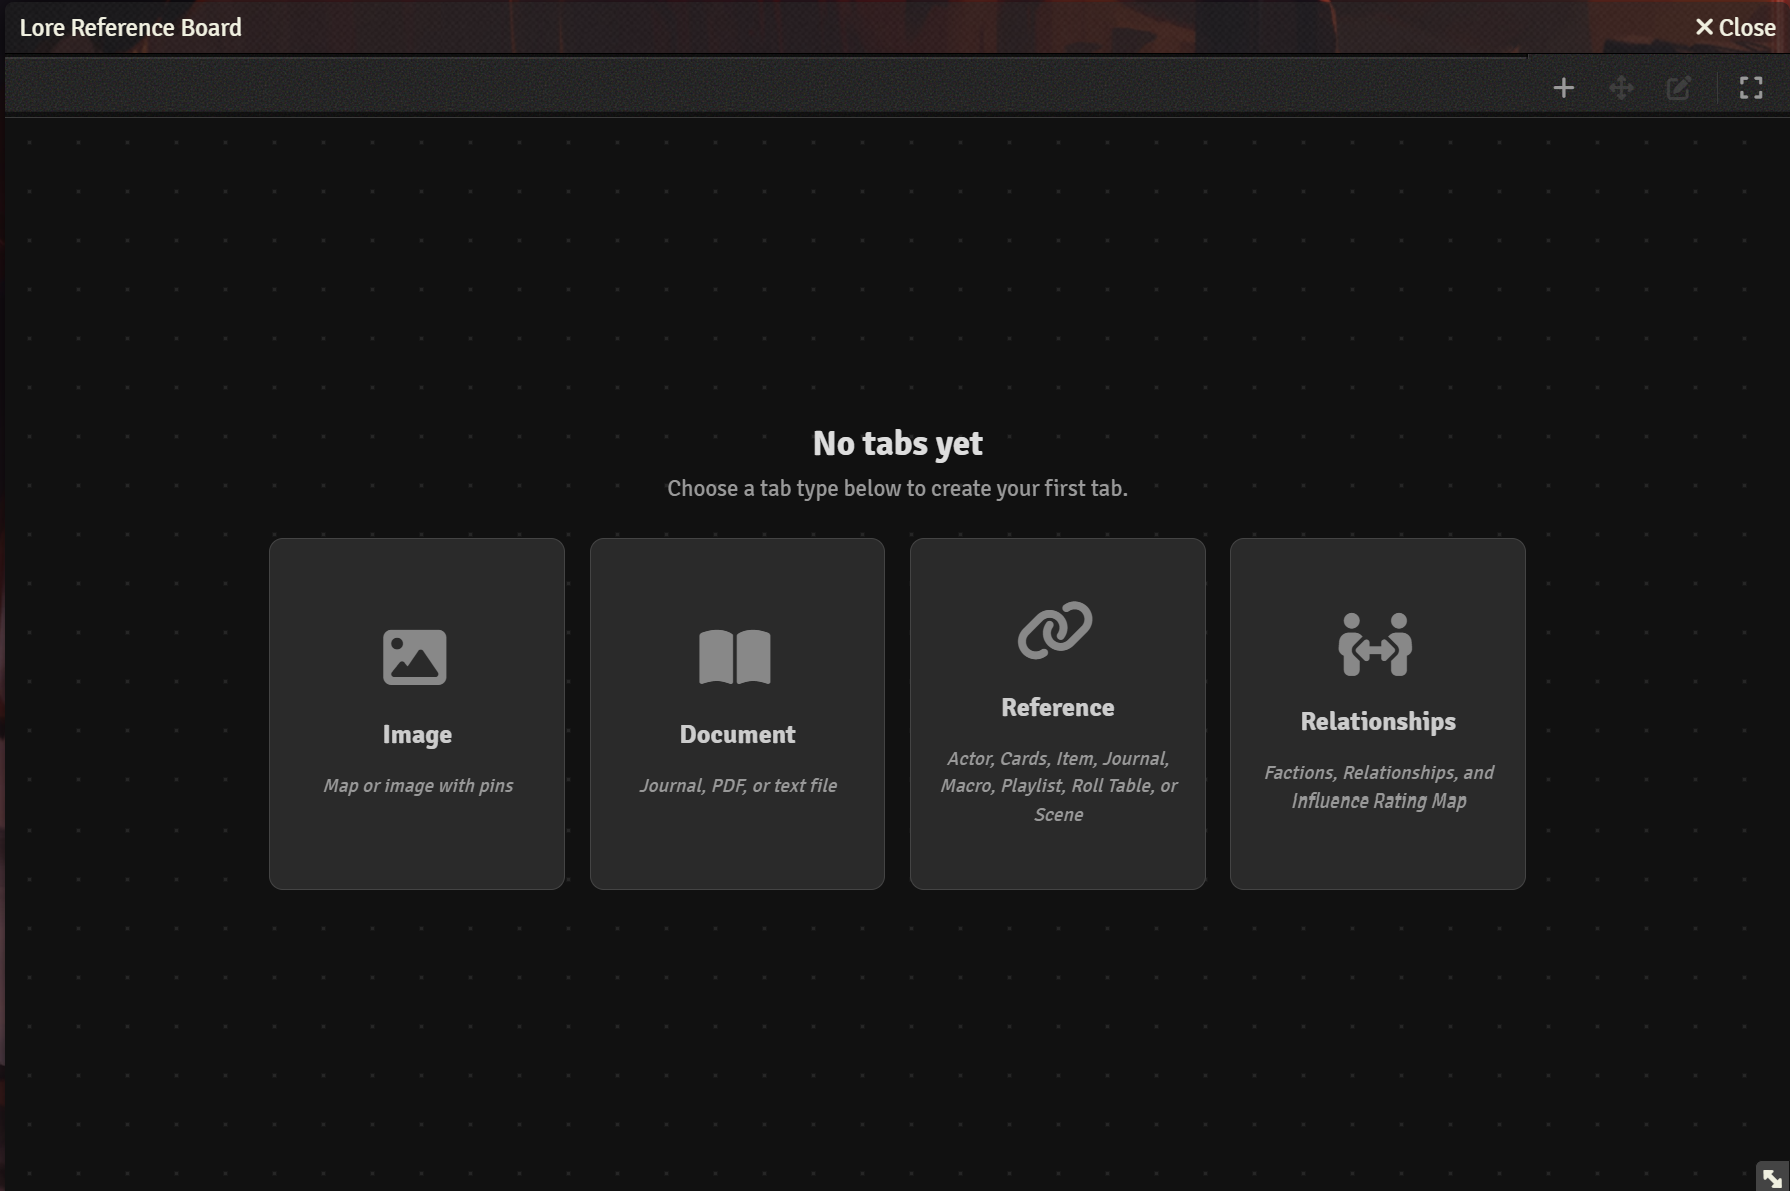
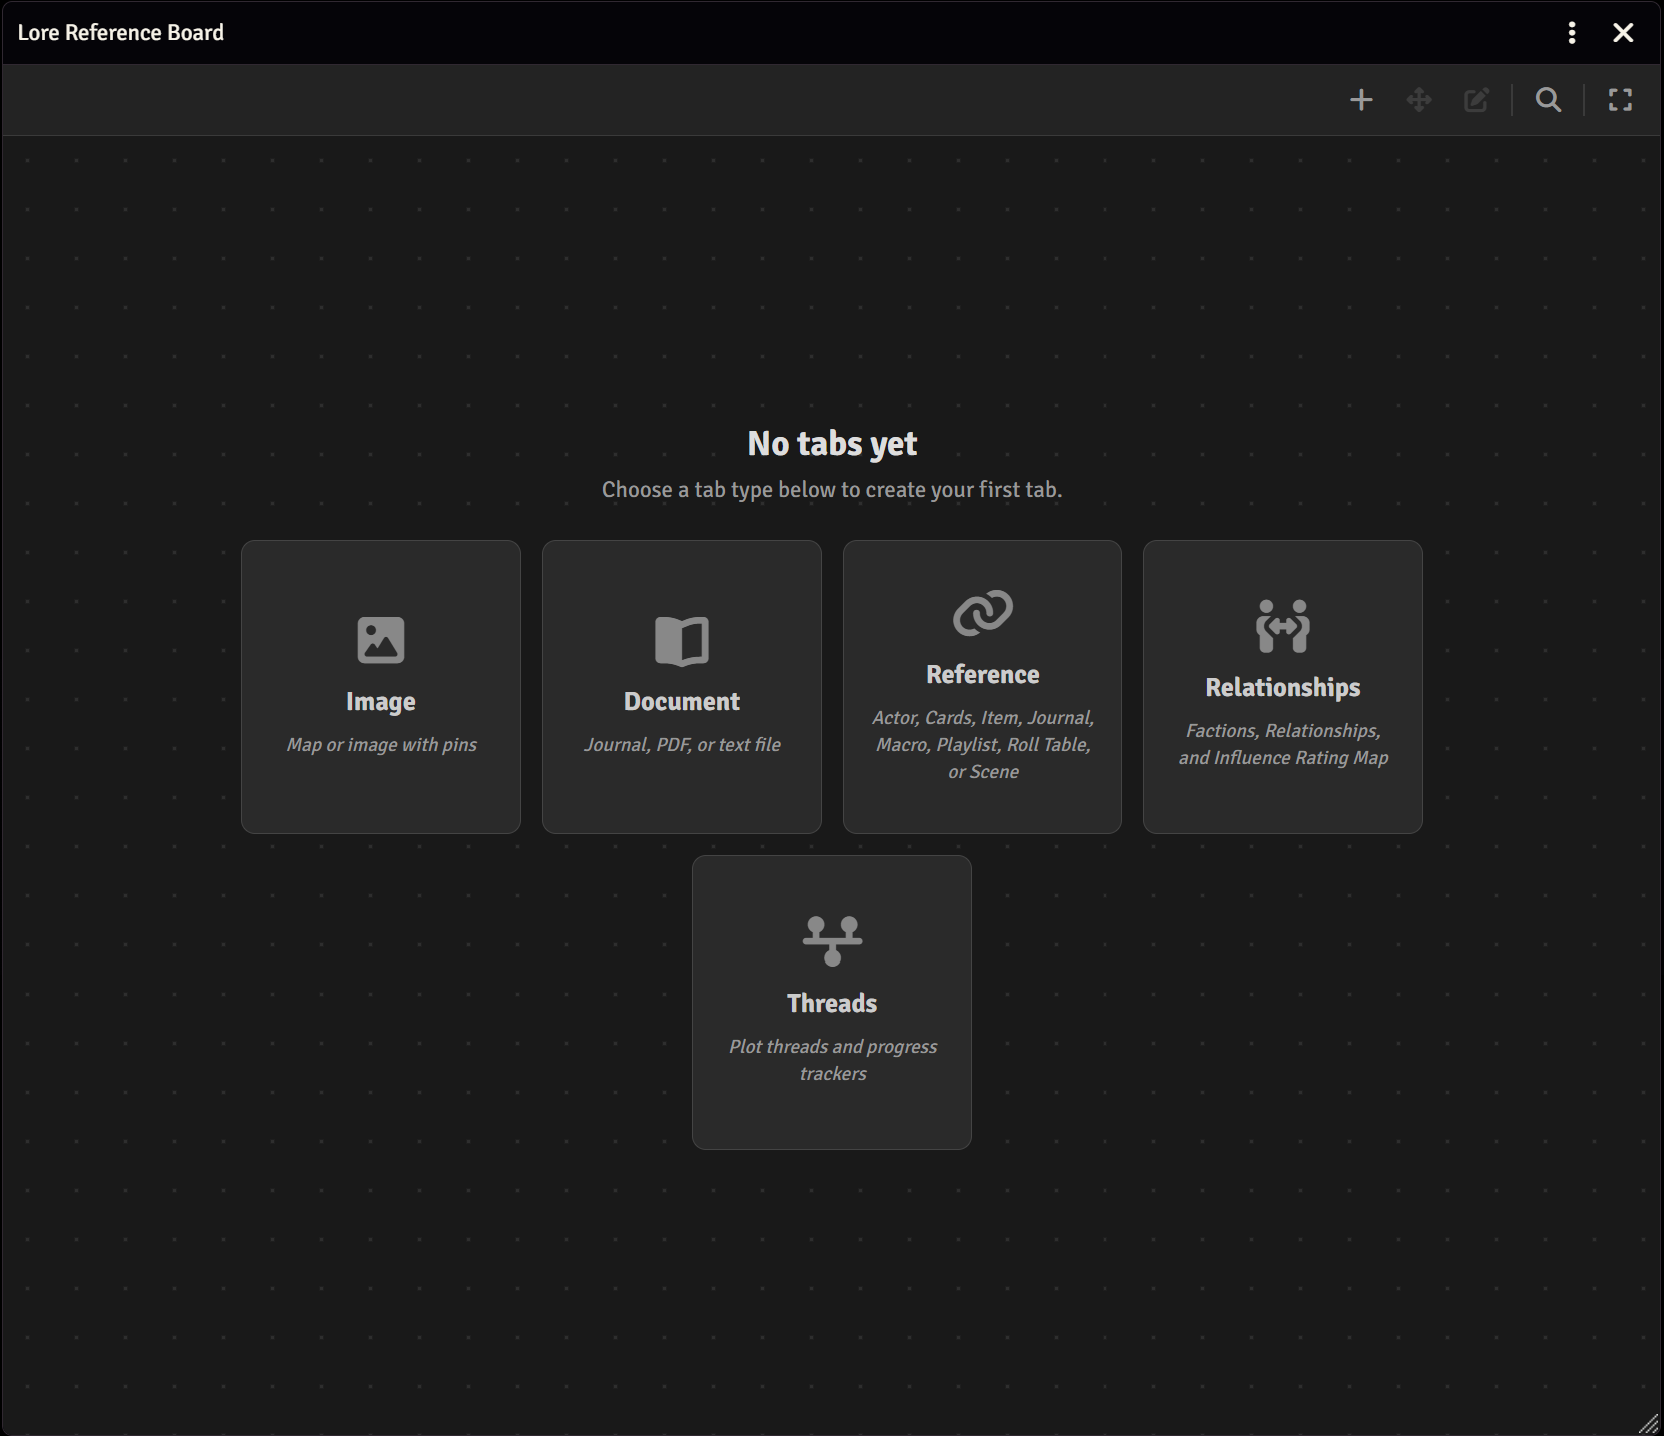
Updating images and readme with said images

diff --git a/README.md b/README.md
@@ -32,7 +32,7 @@ Tabs can be pinned to keep them grouped at the start of the tab bar (separated b
 Each tab is color-coded by type (blue for Image, coral for Document, purple for Reference, amber for Faction, green for Threads), so you can tell at a glance what kind of tab you are looking at.
 
 ### Image Tabs
-<img width="1788" height="1194" alt="image" src="https://github.com/ElemorSeru/lore-reference-board/blob/master/assets/screenshots/ImageTabWPins.png" />
+<img width="1676" height="1197" alt="image" src="https://github.com/ElemorSeru/lore-reference-board/blob/master/assets/screenshots/ImageTabWPins.png" />
 A full-view image viewer (mostly for maps of any kind, but can be any image you want to put references on) with placeable pins. The image supports pan and zoom via mouse wheel and drag. Each pin can be:
 
 - Given a title, description, color, and icon (from a default selectable icon set)
@@ -46,7 +46,8 @@ If the GM Tools: Encounter Forge module is active, creating a token offers a cho
 **Pin layers.** Pins on an image tab are organized into stackable layers, each with its own name and color. A dropdown in the image toolbar switches the active layer, or shows "All" layers at once with a small color badge on each pin. Add, rename, recolor, reorder, duplicate, and delete layers from the tab settings. New pins go on the active layer, which is useful for tracking variants of an area, splitting prep between GMs, or keeping different passes of a map apart. Older boards without layer data are upgraded automatically: each image tab gets a default layer and its existing pins move onto it if orphaned from older builds.
 
 **Using a scene as the image.** Instead of browsing for a file, an image tab can be based on one of your Foundry scenes, chosen from the world or a compendium. The board snapshots the scene's images and lets you cycle through them from a toolbar dropdown: the background, the foreground, and, on Foundry v14, each of the scene's levels. Pins share one fixed workspace across every image, so switching images never moves them. The tab settings offer Refresh (re-pull the scene) and Change or Reconnect (point the tab at a different or recreated scene). A scene-backed tab that lands in a world without that scene keeps working as a saved image list. See the wiki for the full detail on refreshing, reconnecting, and recreating scenes, and on how pins are kept or cleared when the image or scene changes.
-<img width="1678" height="1044" alt="image" src="https://github.com/ElemorSeru/lore-reference-board/blob/master/assets/screenshots/PinGallery.png" />
+<img width="1664" height="393" alt="image" src="https://github.com/ElemorSeru/lore-reference-board/blob/master/assets/screenshots/SceneAndPinLayersTools.png" />
+<img width="1677" height="1045" alt="image" src="https://github.com/ElemorSeru/lore-reference-board/blob/master/assets/screenshots/PinGallery.png" />
 
 <img width="480" height="809" alt="image" src="https://github.com/ElemorSeru/lore-reference-board/blob/master/assets/screenshots/PinImagePreview.png" />
 
@@ -106,17 +107,19 @@ A freeform relationship map for tracking factions, NPCs, and how they all feel a
 - Party Standing (handshake icon) opens a side panel listing every faction on all faction tabs with its current standing label
 
 ### Threads Tabs
-
+<img width="1662" height="1223" alt="image" src="https://github.com/ElemorSeru/lore-reference-board/blob/master/assets/screenshots/ThreadsTab.png" />
 A running list of everything moving in the campaign: open plot hooks and ticking progress meters, side by side in one filterable view instead of two separate tab types.
 
 Each row is one of two kinds:
 
 - **Thread row** - a plot hook or open question with a status (Seed / Active / Resolved / Abandoned), a description, an optional linked journal entry, and a dated note log you can expand inline without opening a row edit dialog
 - **Tracker row** - a current/max progress meter toward one or more named milestones, rendered as a **bar**, a **clock** (segmented dial), or a row of **pips**, whichever style fits the tracker. Bump progress with the +/- stepper directly on the row; no need to open the edit dialog just to advance a meter.
+<img width="1618" height="990" alt="image" src="https://github.com/ElemorSeru/lore-reference-board/blob/master/assets/screenshots/ThreadsMeters.png" />
 
 Rows can be grouped into folders, reordered by drag-and-drop, and filtered by status with the toolbar's filter chips. Resolved and abandoned rows dim rather than disappear, so you can still find them later. Editing, deleting, and folder deletion are available from each row's kebab (three-dot) menu.
 
 The same Threads list is also available per-pin from the pin gallery, as a toggle alongside the pin's linked journal, for tracking things specific to one location on the map.
+<img width="1671" height="1051" alt="image" src="https://github.com/ElemorSeru/lore-reference-board/blob/master/assets/screenshots/ThreadsInGallery.png" />
 
 ---
 
@@ -148,6 +151,7 @@ Links break: journals get deleted, files move, boards get imported into other wo
 - Scene image tabs keep working from their snapshot even when the source scene is missing; the tab settings offer a Reconnect control, and on import a scene of the same name can be suggested as a match
 
 On import, a link check dialog resolves every link before anything is written. Broken document links get relink suggestions matched by name and type from the destination world and loaded compendiums, with a one-click "relink all exact matches" option. Broken file paths that share a folder prefix can be remapped in one step, with the dialog re-checking the new paths live. Exports record document names to make those suggestions possible. Whatever is left imports as a labeled broken-link state and can be fixed later. I attempted to give a cleaner path rather than force broken links.
+<img width="767" height="649" alt="image" src="https://github.com/ElemorSeru/lore-reference-board/blob/master/assets/screenshots/ImportBoardLinkPanel.png" />
 
 > **Note:** exports made with module versions before v2.1 do not contain document names, so the link check can only show raw IDs for them and cannot offer relink suggestions. To get the full repair experience, update the module in the source world and export again. The new export records a name for every link that still resolves there.
 
